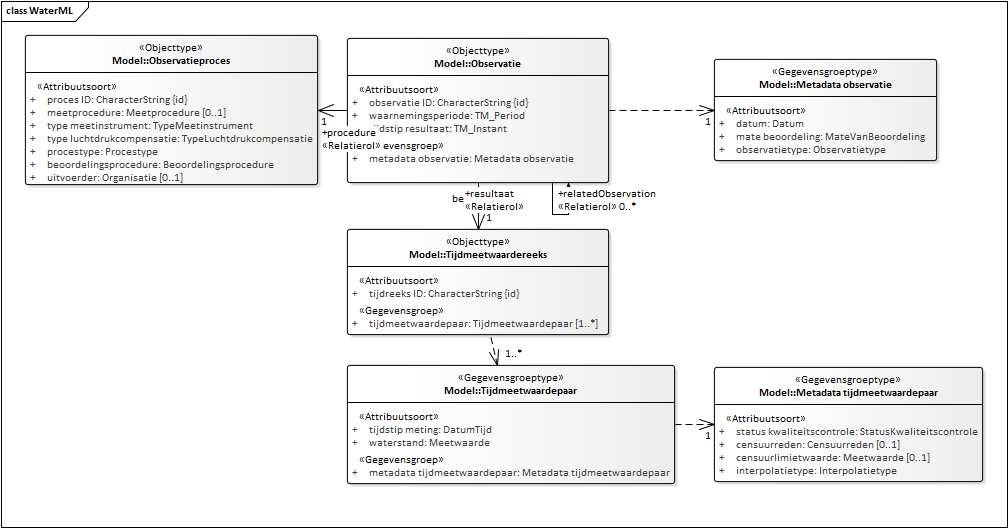
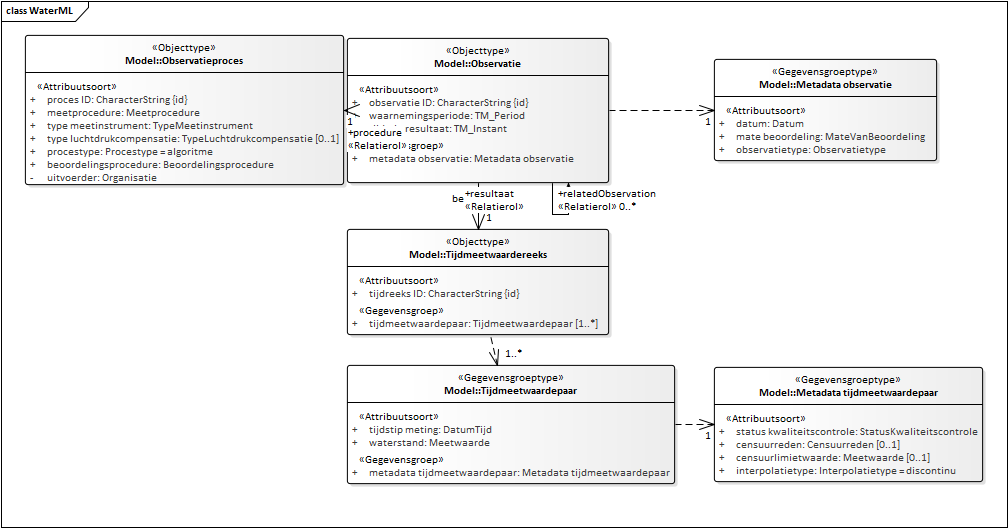
Conceptualmodel-GrondwaterstandonderzoekGLD-0.9-3-20191003-20191015-123157

diff --git a/data/GLD-cat.msword.html b/data/GLD-cat.msword.html
@@ -13,7 +13,7 @@
    <body>
       <p>Conceptual model/Grondwaterstandonderzoek (GLD)/20191003</p>
       <p>Imvertor: 1.55.2</p>
-      <p>Model release: Conceptualmodel-GrondwaterstandonderzoekGLD-0.9-3-20191003-20191015-112030</p>
+      <p>Model release: Conceptualmodel-GrondwaterstandonderzoekGLD-0.9-3-20191003-20191015-123157</p>
       <hr>
       <section>
          <h1>Artikel 1 Definitie van registratieobject, entiteiten en attributen</h1>
@@ -502,7 +502,7 @@
                            </tr>
                            <tr>
                               <th>Kardinaliteit</th>
-                              <td>0.. 1</td>
+                              <td>1</td>
                            </tr>
                            <tr>
                               <th>Domein</th>
@@ -588,7 +588,7 @@
                            </tr>
                            <tr>
                               <th>Kardinaliteit</th>
-                              <td>1</td>
+                              <td>0.. 1</td>
                            </tr>
                            <tr>
                               <th>Domein</th>
@@ -668,9 +668,9 @@
                               <th>Toelichting</th>
                               <td>
                                  
-                                 <p xmlns="http://www.w3.org/1999/xhtml" xmlns:html="http://www.w3.org/1999/xhtml" xmlns:imvert="http://www.imvertor.org/schema/system">In alle gevallen is er bij de bepaling van de waterstand t.o.v. NAP sprake van een
-                                    berekening daarom wordt in dit (WaterML standaard) attribuut de vaste waarde 'algoritme'
-                                    ingevuld.
+                                 <p xmlns="http://www.w3.org/1999/xhtml" xmlns:html="http://www.w3.org/1999/xhtml" xmlns:imvert="http://www.imvertor.org/schema/system">In alle gevallen is er bij de bepaling van de waterstand ten opzichte van NAP sprake
+                                    van een berekening daarom wordt in dit (WaterML standaard) attribuut de vaste waarde
+                                    algoritme ingevuld.
                                  </p>
                                  
                               </td>
@@ -751,7 +751,7 @@
                            </tr>
                            <tr>
                               <th>Kardinaliteit</th>
-                              <td>0.. 1</td>
+                              <td>1</td>
                            </tr>
                            <tr>
                               <th>Domein</th>
@@ -2220,7 +2220,7 @@
                            </tr>
                            <tr>
                               <th>&nbsp;&nbsp;Naam</th>
-                              <td>Meetwaarde </td>
+                              <td>Meetwaarde 2.2</td>
                            </tr>
                            <tr>
                               <th>&nbsp;&nbsp;Type</th>
@@ -2232,8 +2232,12 @@
                            </tr>
                            <tr>
                               <th>Regels</th>
-                              <td>Het gegeven heeft geen waarde als het gegeven redenCensurering van de entiteit TijdMeetwaardepaar
-                                 metadata aanwezig is.
+                              <td>
+                                 
+                                 <p xmlns="http://www.w3.org/1999/xhtml" xmlns:html="http://www.w3.org/1999/xhtml" xmlns:imvert="http://www.imvertor.org/schema/system">Reden geen waarde: De waarde mag ontbreken wanneer het attribuut censuurreden van
+                                    de entiteit Metadata tijdmeetwaardepaar aanwezig is.
+                                 </p>
+                                 
                               </td>
                            </tr>
                            <tr>
@@ -2241,8 +2245,12 @@
                               <td>
                                  
                                  <p xmlns="http://www.w3.org/1999/xhtml" xmlns:html="http://www.w3.org/1999/xhtml" xmlns:imvert="http://www.imvertor.org/schema/system">Het apparaat meet een druk, een lengte of een reistijd van een signaal. Dit wordt
-                                    omgerekend naar een waterstand ten opzichten van NAP. Een waarde -5.12 is 5 meter
-                                    en 12 centimeter onder NAP.
+                                    omgerekend naar een waterstand ten opzichte van NAP. Een waarde -5.12 is 5 meter en
+                                    12 centimeter onder NAP.
+                                 </p>
+                                 
+                                 <p xmlns="http://www.w3.org/1999/xhtml" xmlns:html="http://www.w3.org/1999/xhtml" xmlns:imvert="http://www.imvertor.org/schema/system">De waarde mag ontbreken wanneer een limietwaarde wordt onder- of overschreden. Bijvoorbeeld
+                                    waneer de peilbuis is overgelopen of de sensor is drooggevallen.
                                  </p>
                                  
                               </td>
@@ -3101,7 +3109,7 @@
       <section id="" level="3">
          <h1>Artikel 3 Het domeinmodel</h1>
          <div class="imageinfo overview"><img src="Images/EAID_08E27657_5603_4b75_BB8B_47B282A97D63.png" usemap="#imagemap-EAID_08E27657_5603_4b75_BB8B_47B282A97D63"><map name="imagemap-EAID_08E27657_5603_4b75_BB8B_47B282A97D63">
-               <area shape="rect" coords="25,520,318,370" alt="" href="#graph_EAID_60FD1126_3C17_4798_955B_1E516F7A0B33">
+               <area shape="rect" coords="25,520,344,370" alt="" href="#graph_EAID_60FD1126_3C17_4798_955B_1E516F7A0B33">
                <area shape="rect" coords="771,818,1040,703" alt="" href="#graph_EAID_734CD3EC_5E0A_4b12_89F5_AF8104ECF41F">
                <area shape="rect" coords="404,671,666,565" alt="" href="#graph_EAID_590167CC_D7A2_4abb_8672_8592B1DF1842">
                <area shape="rect" coords="404,519,666,374" alt="" href="#graph_EAID_665112EA_A39D_4ff0_BC95_CDDD3C5314EE">
